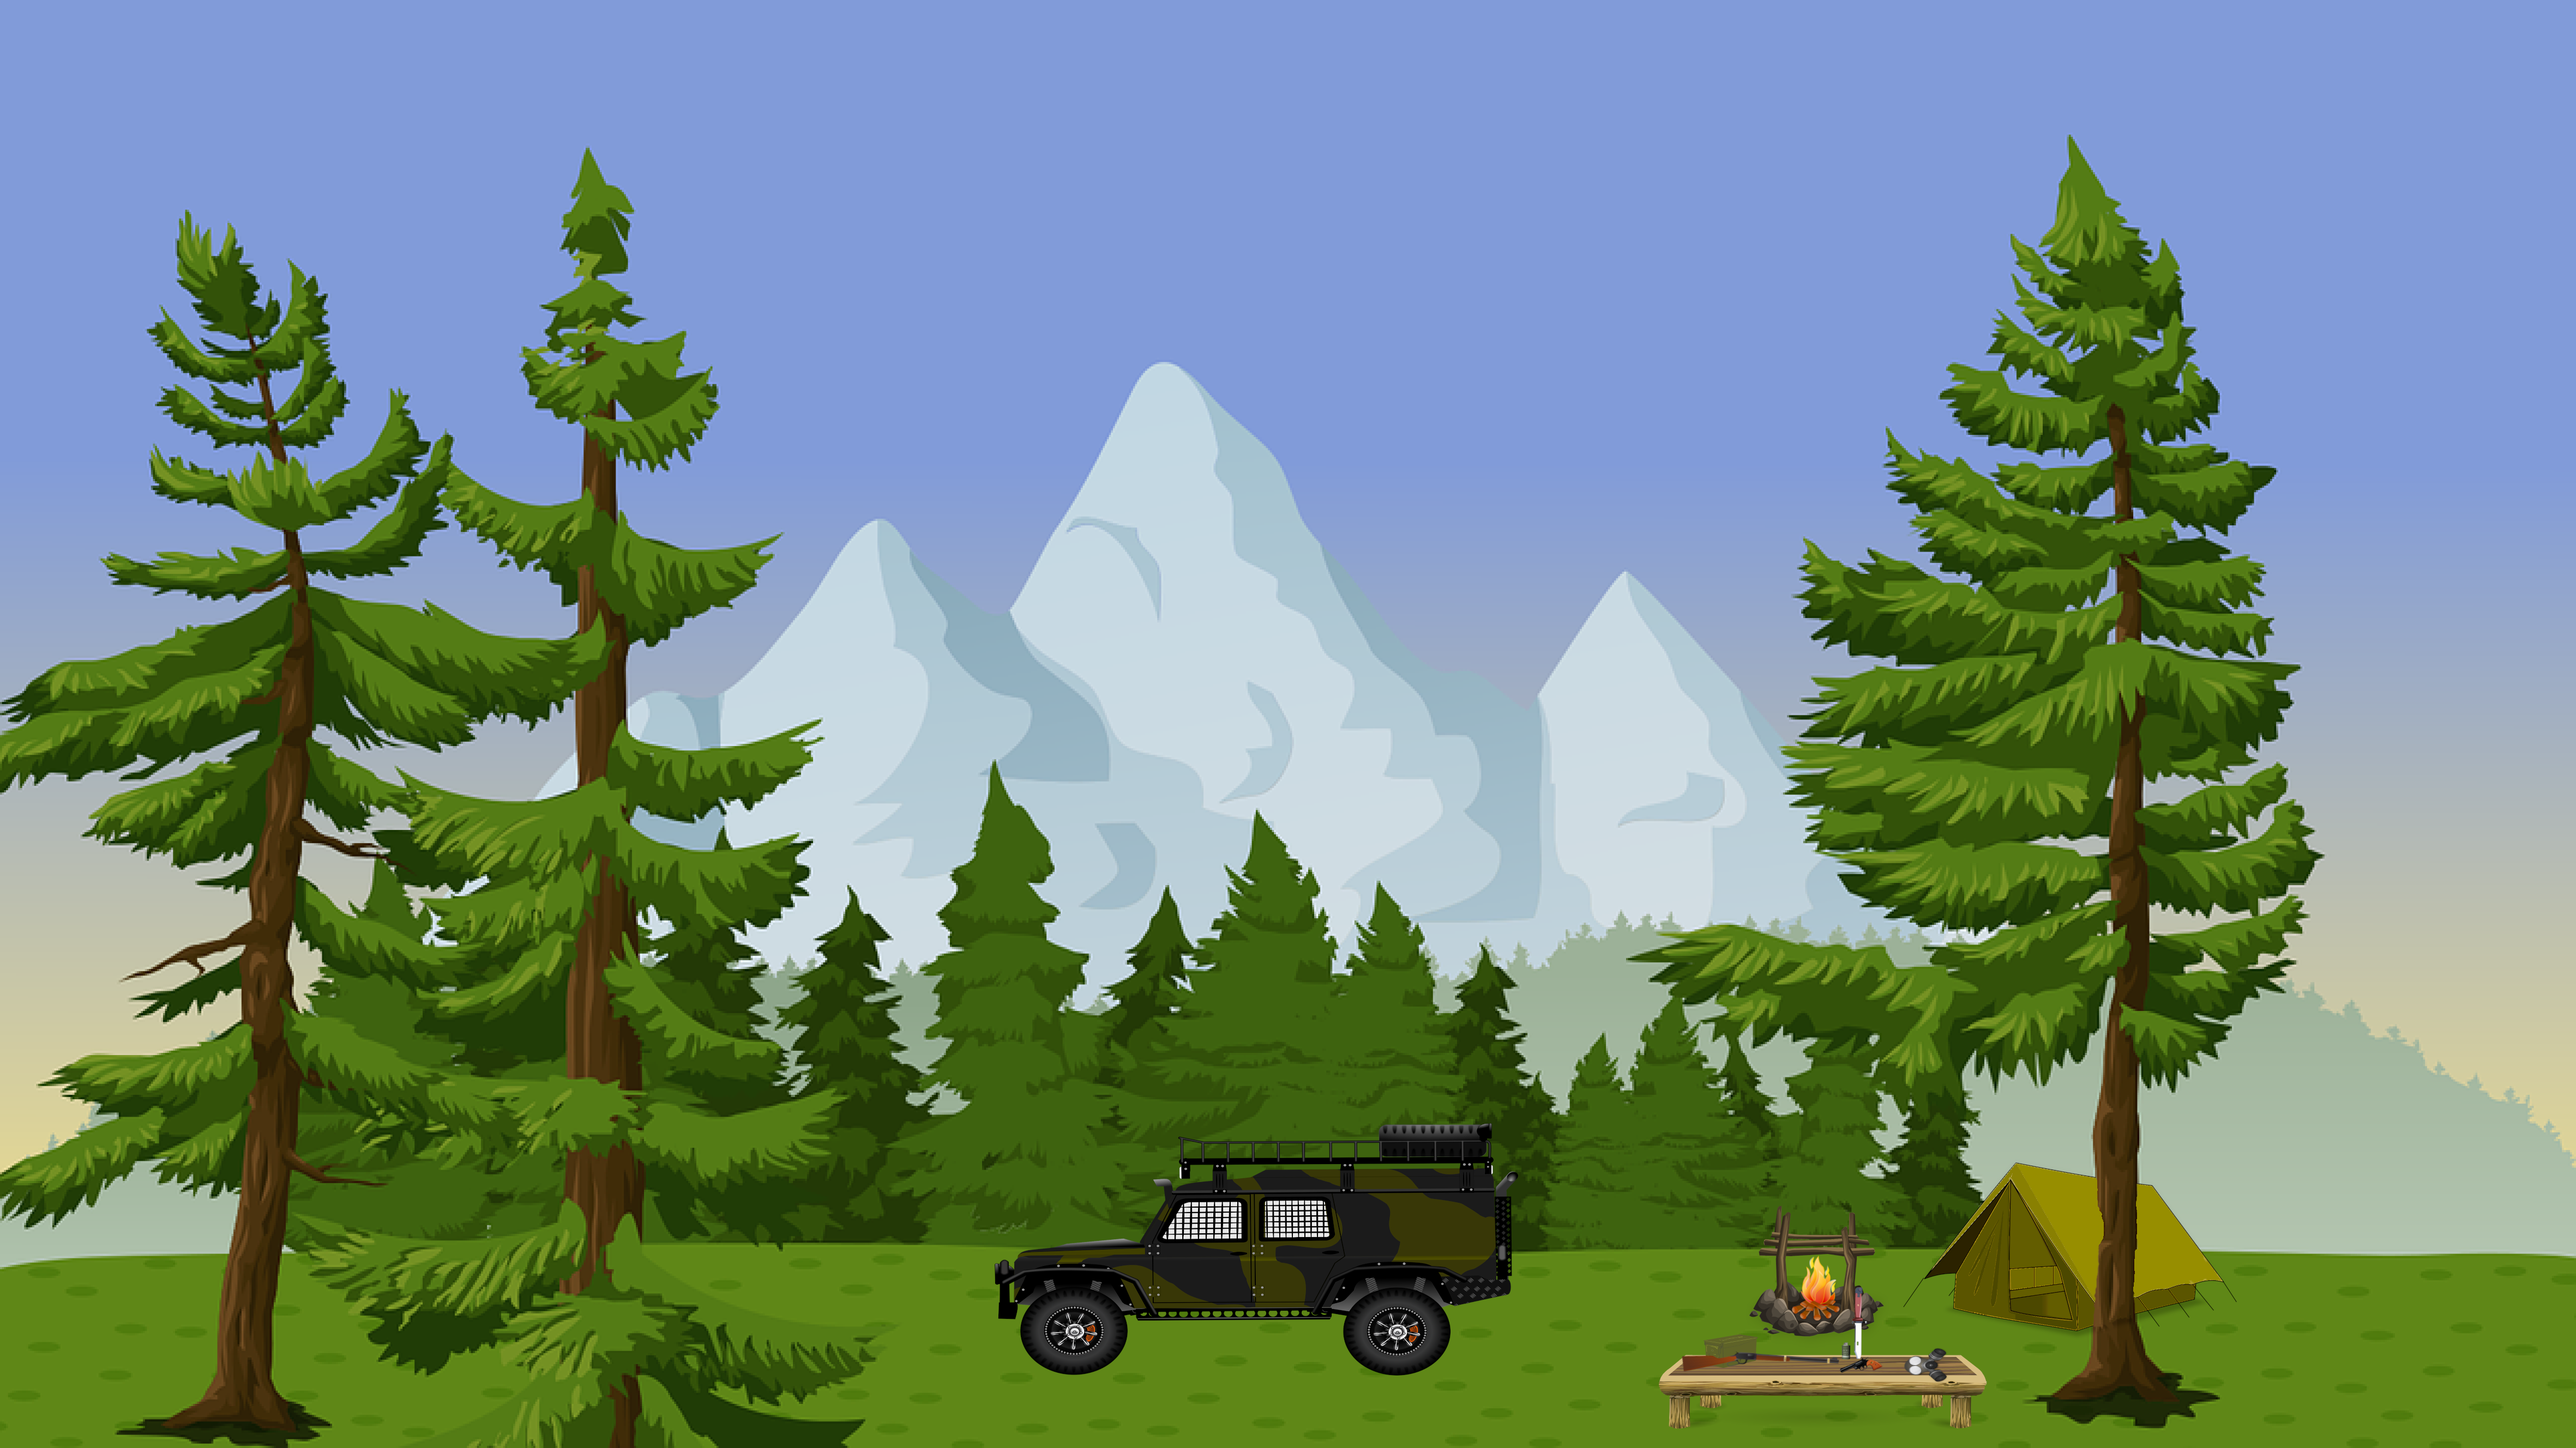
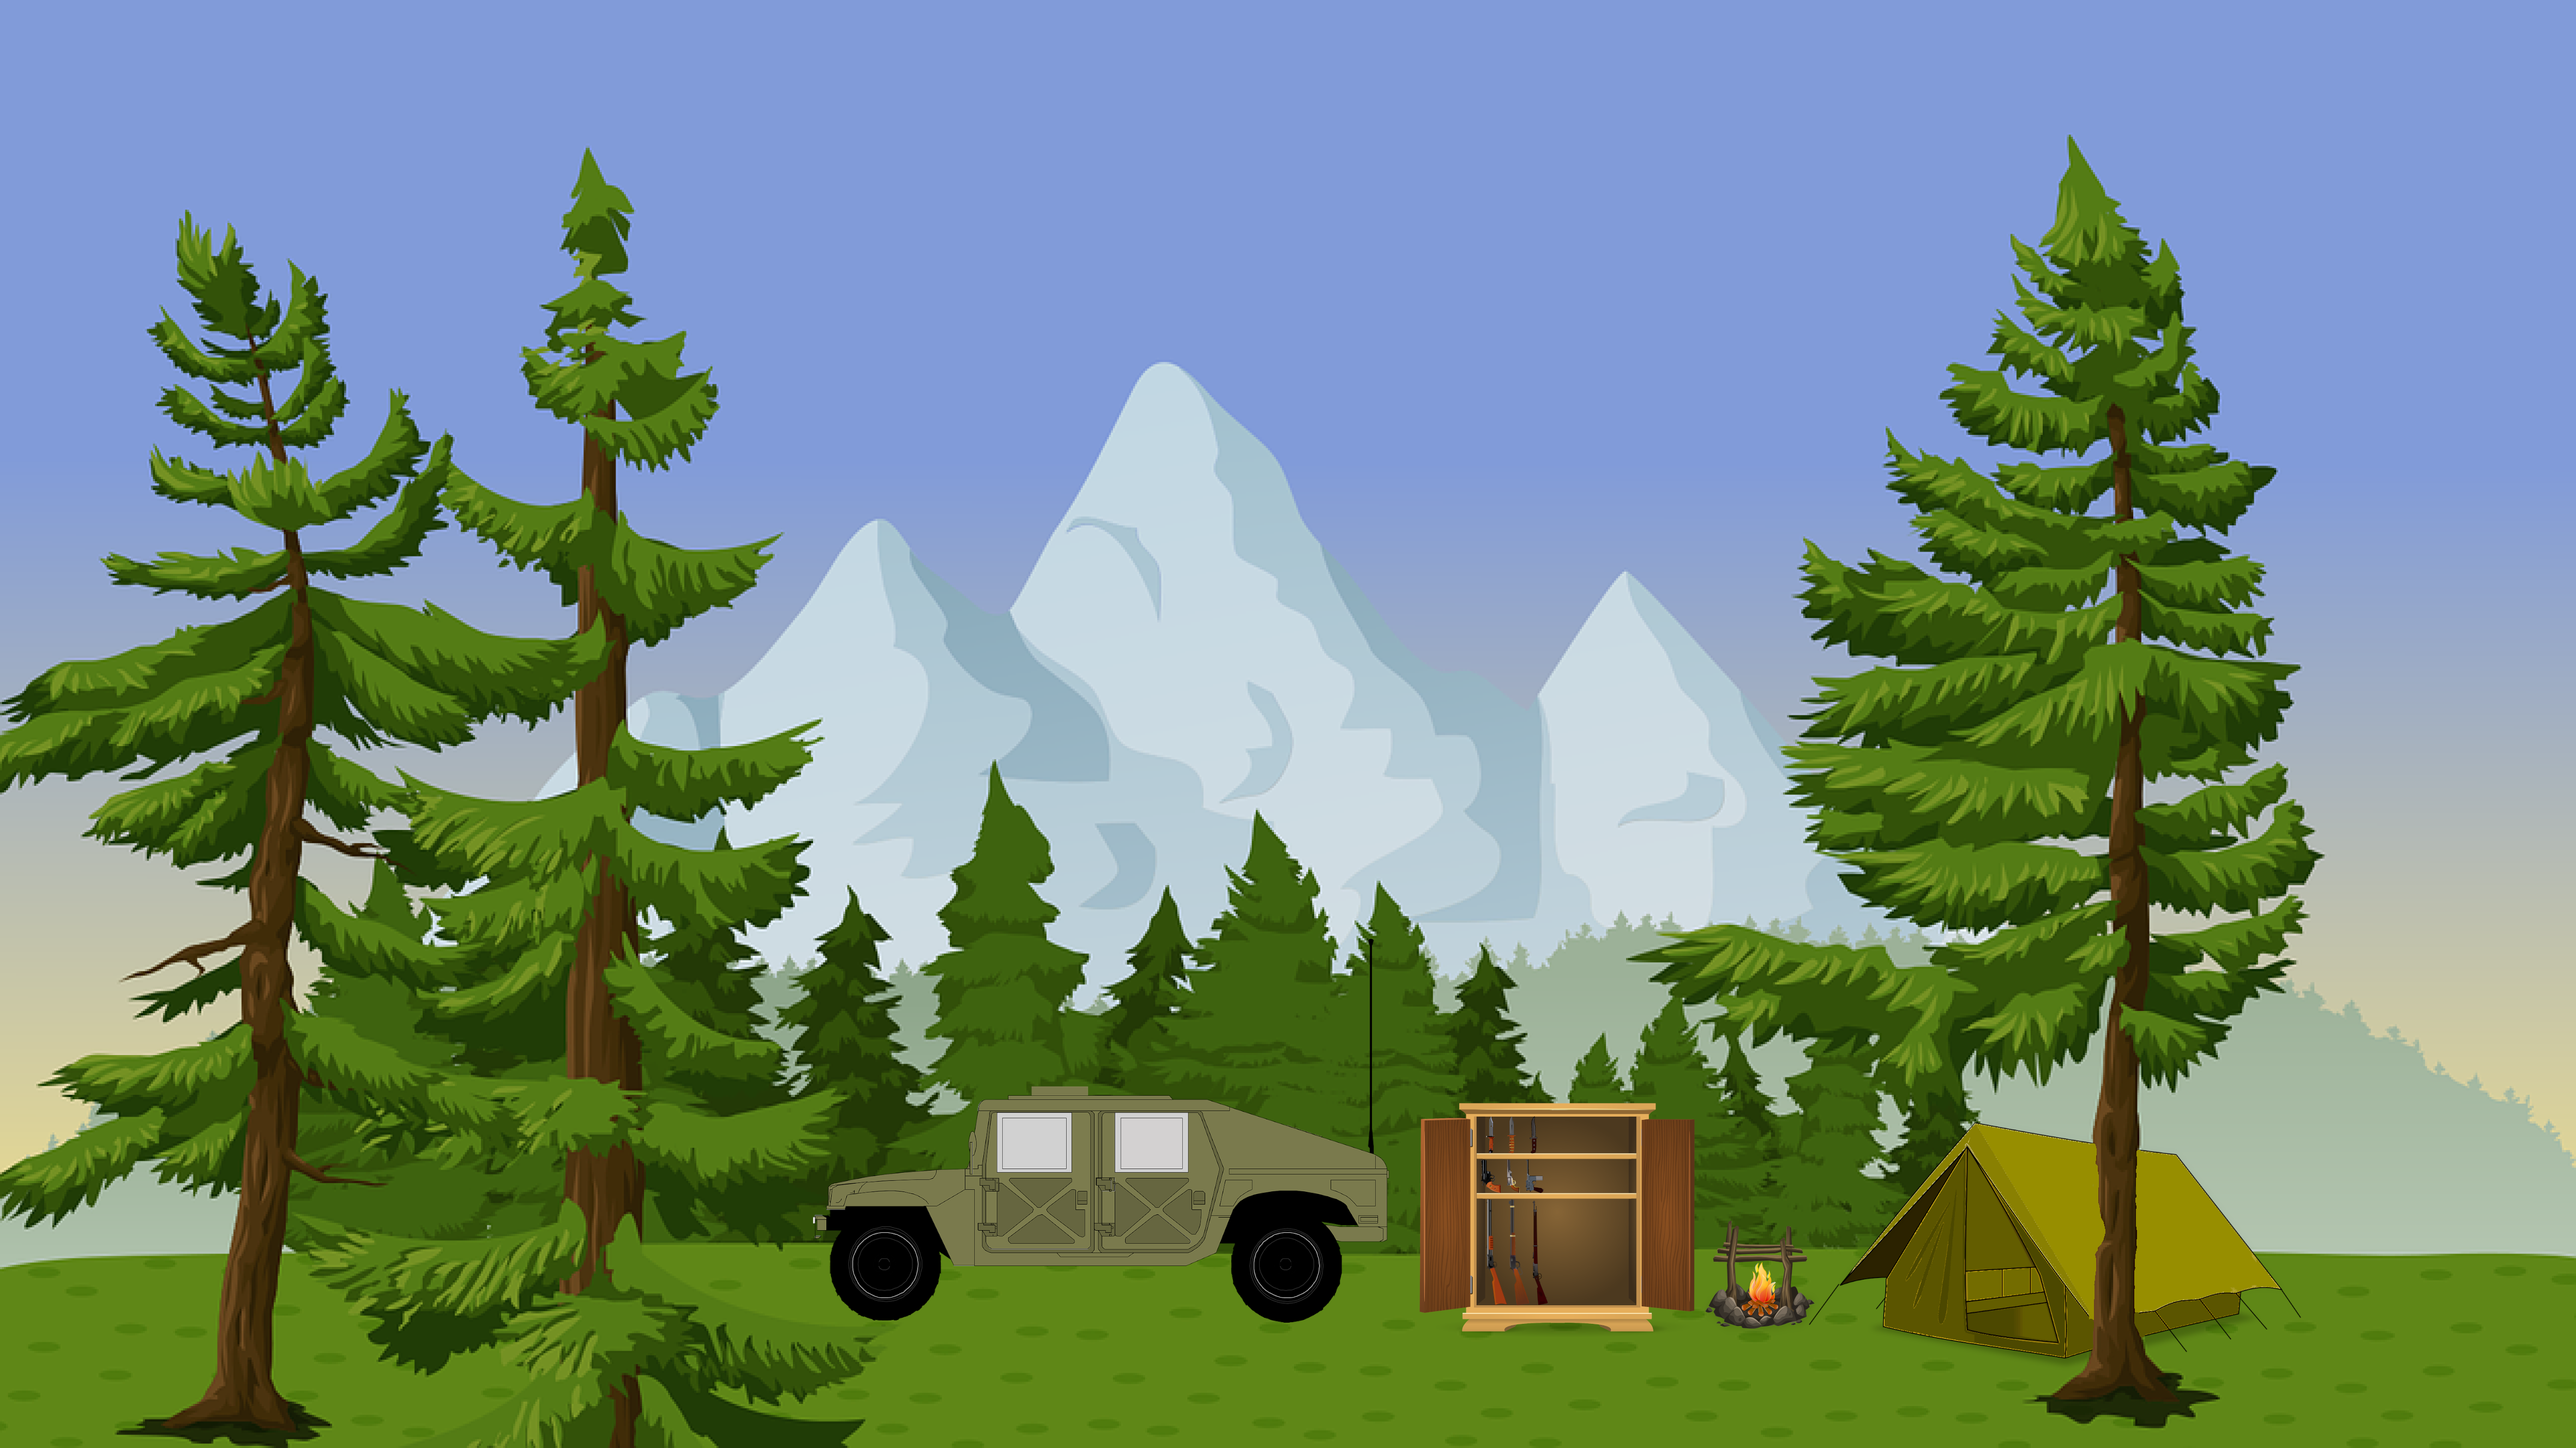
changed backgrounds and changed function checklvl() rank to vehicle and weapon to new guns this will now display what is new on the background

Changed region(s): [[0.3112, 0.7497, 0.9024, 0.9996]]

diff --git a/javascript/game.js b/javascript/game.js
@@ -118,64 +118,64 @@ function death() {
 function checklvl() {
     //there are 12 level-sections
     if (player.level >= 25 && player.level < 50) {
-        document.getElementById("rifle").innerHTML = "Rifle: Type-88";
-        document.getElementById("rank").innerHTML = "Rank: Marksman";
+        document.getElementById("vehicle").innerHTML = "Vehicle: None";
+        document.getElementById("newguns").innerHTML = "New guns: None";
         background.src = "img/background.png";
     }
     if (player.level >= 50 && player.level < 75) {
-        document.getElementById("rifle").innerHTML = "Rifle: Fall";
-        document.getElementById("rank").innerHTML = "Rank: Marksman Elite";
-        background.src = "img/background2.png";
+        document.getElementById("vehicle").innerHTML = "Vehicle: Ford F150";
+        document.getElementById("newguns").innerHTML = "New guns: Cowboy set";
+        background.src = "img/background1.png";
     }
     if (player.level >= 75 && player.level < 100) {
-        document.getElementById("rifle").innerHTML = "Rifle: M39";
-        document.getElementById("rank").innerHTML = "Rank: Marksman Sergeant";
-        background.src = "img/background2.png";
+        document.getElementById("vehicle").innerHTML = "Vehicle: Ford F150";
+        document.getElementById("newguns").innerHTML = "New guns: Cowboy set";
+        background.src = "img/background1.png";
     }
     if (player.level >= 100 && player.level < 150) {
-        document.getElementById("rifle").innerHTML = "Rifle: Scar-H";
-        document.getElementById("rank").innerHTML = "Rank: Sniper";
-        background.src = "img/background3.png";
+        document.getElementById("vehicle").innerHTML = "Vehicle: Jeep Wrangler";
+        document.getElementById("newguns").innerHTML = "New guns: Union set";
+        background.src = "img/background2.png";
     }
     if (player.level >= 150 && player.level < 200) {
-        document.getElementById("rifle").innerHTML = "Rifle: SPG1";
-        document.getElementById("rank").innerHTML = "Rank: Sniper Elite";
-        background.src = "img/background3.png";
+        document.getElementById("vehicle").innerHTML = "Vehicle: Jeep Wrangler";
+        document.getElementById("newguns").innerHTML = "New guns: Union set";
+        background.src = "img/background2.png";
     }
     if (player.level >= 200 && player.level < 250) {
-        document.getElementById("rifle").innerHTML = "Rifle: RSASS";
-        document.getElementById("rank").innerHTML = "Rank: Sniper Sergeant";
-        background.src = "img/background4.png";
+        document.getElementById("vehicle").innerHTML = "Vehicle: Humvee";
+        document.getElementById("newguns").innerHTML = "New guns: WW2 set";
+        background.src = "img/background3.png";
     }
     if (player.level >= 250 && player.level < 300) {
-        document.getElementById("rifle").innerHTML = "Rifle: SVD";
-        document.getElementById("rank").innerHTML = "Rank: Sharpshooter";
-        background.src = "img/background4.png";
+        document.getElementById("vehicle").innerHTML = "Vehicle: Humvee";
+        document.getElementById("newguns").innerHTML = "New guns: WW2 set";
+        background.src = "img/background3.png";
     }
     if (player.level >= 300 && player.level < 350) {
-        document.getElementById("rifle").innerHTML = "Rifle: M110";
-        document.getElementById("rank").innerHTML = "Rank: Sharpshooter Elite";
-        background.src = "img/background5.png";
+        document.getElementById("vehicle").innerHTML = "Vehicle: Humvee with turret";
+        document.getElementById("newguns").innerHTML = "New guns: Vietnam war set";
+        background.src = "img/background4.png";
     }
     if (player.level >= 350 && player.level < 400) {
-        document.getElementById("rifle").innerHTML = "Rifle: M2010";
-        document.getElementById("rank").innerHTML = "Rank: Sharpshooter Sergeant";
-        background.src = "img/background5.png";
+        document.getElementById("vehicle").innerHTML = "Vehicle: Humvee with turret";
+        document.getElementById("newguns").innerHTML = "New guns: Vietnam war set";
+        background.src = "img/background4.png";
     }
     if (player.level >= 400 && player.level < 450) {
-        document.getElementById("rifle").innerHTML = "Rifle: Gol";
-        document.getElementById("rank").innerHTML = "Rank: Spec-Ops Sniper";
-        background.src = "img/background6.png";
+        document.getElementById("vehicle").innerHTML = "Vehicle: APC";
+        document.getElementById("newguns").innerHTML = "New guns: U.S. Army set";
+        background.src = "img/background5.png";
     }
     if (player.level >= 450 && player.level < 500) {
-        document.getElementById("rifle").innerHTML = "Rifle: AWM";
-        document.getElementById("rank").innerHTML = "Rank: Spec-Ops Sharpshooter";
-        background.src = "img/background6.png";
+        document.getElementById("vehicle").innerHTML = "Vehicle: APC";
+        document.getElementById("newguns").innerHTML = "New guns: U.S. Army set";
+        background.src = "img/background5.png";
     }
     if (player.level >= 500) {
-        document.getElementById("rifle").innerHTML = "Rifle: M98B";
-        document.getElementById("rank").innerHTML = "Rank: Deadshot";
-        background.src = "img/background7.png";
+        document.getElementById("vehicle").innerHTML = "Vehicle: M1 Abrams tank";
+        document.getElementById("newguns").innerHTML = "New guns: Modern sniper set";
+        background.src = "img/background6.png";
     }
 }
 

diff --git a/minigame.html b/minigame.html
@@ -75,8 +75,8 @@
             <img src="img/c4m0-logo-original.png" class="logo-game">
             <div class="player-stats">
                 <p class="stats underline" id="name">PLAYER</p>
-                <p class="stats" id="rank">Rank: Rookie</p>
-                <p class="stats" id="rifle">Rifle: VSK-94</p>
+                <p class="stats" id="vehicle">Vehicle: None</p>
+                <p class="stats" id="newguns">New guns: None</p>
                 <p class="stats" id="playerlevel">Playerlevel: 1</p>
                 <p class="stats" id="experience">Experience: 0/100xp</p>
                 <p class="stats" id="damage">Damage per shot: 10</p>
